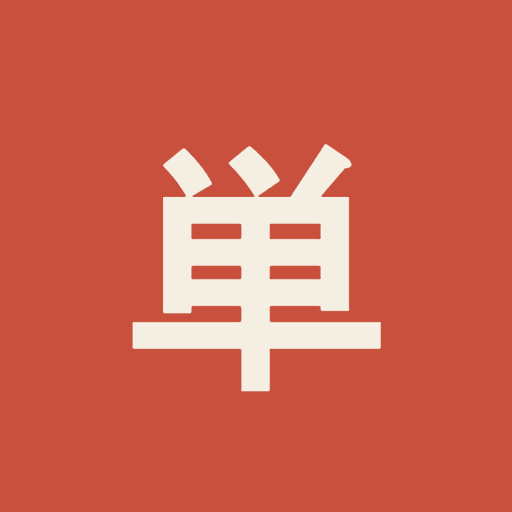
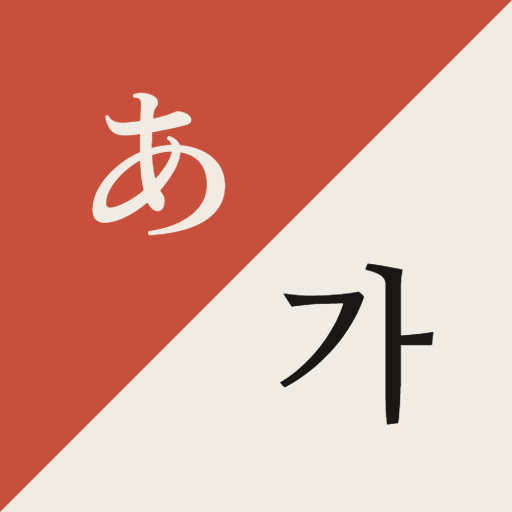
앱 아이콘 B6 확정 (あ + 가 대각 분할 · 주색/크림)
초기 単 아이콘을 교체. 単은 '단어장'의 単일 뿐 "일본인이 한국어를 배우는 앱"이라는
성격이 드러나지 않았다.

색 조합 6가지를 대비로 비교해 결정했다. 크림 글자는 주색 위에서 3.8:1, 먹 위에서
15.1:1 로 4배 차이가 나 48dp 에서 한 톤 물러나 보인다. 즉 어느 글자를 주인공으로
둘지의 문제였고, 앱 성격상 「가」가 주인공이어야 한다.
B6(주색/크림)만이 넓은 주색 면적으로 채도를 살리면서 「가」를 15.1:1 로 세우고,
세 키컬러가 모두 살아있다.

Play 스토어 「韓国語 単語」 상위 11개 조사 결과, 대각 분할로 두 문자 체계를 병치한
아이콘은 없었다. 팔레트가 겹치는 둘(韓国語単語トレーニング, Mondly)도 구성이 완전히
달라 혼동 위험은 낮다. 단일 한글 「한」을 쓰는 앱은 이미 있어 초기 후보 A안과
겹쳤을 것이다.

- icon-192 / icon-512 / icon-maskable-512 / playstore-512 교체
- tools/icon-gen.html 설정 기반으로 재작성. B1~B6 + 검토안 A/C/初 을 담고 채택안을
  표시하며 글자/바탕 대비를 함께 보여준다(3:1 미만 경고색)
- 도구 생성본과 설치본을 픽셀 대조: 26만 중 6픽셀만 최대 3/255 차이(안티앨리어싱)

diff --git a/tools/icon-gen.html b/tools/icon-gen.html
@@ -8,35 +8,41 @@
   body { background:#2A2723; color:#EDE7DC; margin:0; padding:26px 30px 60px;
          font-family:'Malgun Gothic','Apple SD Gothic Neo',sans-serif; }
   h1 { font-size:19px; margin:0 0 6px; }
-  .sub { font-size:12.5px; color:#9A9285; line-height:1.7; margin-bottom:26px; max-width:760px; }
+  h2 { font-size:14px; color:#9A9285; margin:34px 0 14px; letter-spacing:.04em;
+       border-top:1px solid #3B372F; padding-top:20px; }
+  .sub { font-size:12.5px; color:#9A9285; line-height:1.7; margin-bottom:20px; max-width:780px; }
   .sub code { background:#3B372F; padding:1px 6px; border-radius:4px; }
-  .row { display:flex; gap:30px; align-items:flex-start; margin-bottom:26px;
-         padding-bottom:24px; border-bottom:1px solid #3B372F; }
-  .meta { width:210px; flex:none; }
-  .tag { display:inline-block; font-size:10.5px; font-weight:800; letter-spacing:.08em;
-         background:#C84F3B; color:#fff; padding:3px 9px; border-radius:5px; margin-bottom:9px; }
-  .name { font-size:15px; font-weight:700; margin-bottom:5px; }
-  .desc { font-size:12px; color:#A8A093; line-height:1.65; margin-bottom:12px; }
+  .row { display:flex; gap:28px; align-items:flex-start; margin-bottom:22px; }
+  .meta { width:200px; flex:none; }
+  .tag { display:inline-block; font-size:10px; font-weight:800; letter-spacing:.08em;
+         background:#3B372F; color:#A8A093; padding:3px 9px; border-radius:5px; margin-bottom:8px; }
+  .tag.on { background:#C84F3B; color:#fff; }
+  .name { font-size:15px; font-weight:700; margin-bottom:4px; }
+  .ratio { font-size:11.5px; color:#8C8578; margin-bottom:10px; }
+  .ratio.warn { color:#E08A72; }
   .dl { font-size:12px; font-weight:700; background:#C84F3B; color:#fff; border:none;
         padding:8px 14px; border-radius:7px; cursor:pointer; }
   .dl:hover { background:#AE4230; }
-  .shots { display:flex; gap:20px; align-items:flex-end; flex-wrap:wrap; }
+  .dl.ghost { background:transparent; color:#A8A093; border:1px solid #4A453C; }
+  .dl.ghost:hover { border-color:#C84F3B; color:#EDE7DC; background:transparent; }
+  .shots { display:flex; gap:18px; align-items:flex-end; flex-wrap:wrap; }
   .shot { text-align:center; }
-  .cap { font-size:10.5px; color:#8C8578; margin-top:7px; }
+  .cap { font-size:10.5px; color:#8C8578; margin-top:6px; }
   canvas { display:block; }
   .circ { border-radius:50%; overflow:hidden; }
   .sq22 { border-radius:22.5%; overflow:hidden; }
-  .launcher { background:linear-gradient(160deg,#4a5568,#2d3748); padding:12px 14px;
-              border-radius:12px; display:flex; gap:14px; align-items:center; }
+  .launcher { background:linear-gradient(160deg,#4a5568,#2d3748); padding:11px 13px;
+              border-radius:12px; display:flex; gap:13px; align-items:center; }
 </style></head><body>
 
 <h1>mmr-cards 앱 아이콘 생성기</h1>
 <div class="sub">
   키컬러: 크림 <code>#F1ECE3</code> · 먹 <code>#1A1815</code> · 주색 <code>#C84F3B</code><br>
-  브라우저로 이 파일을 그냥 열면 된다(서버 불필요). 안을 고르고 <b>내려받기</b>를 누르면
+  브라우저로 이 파일을 그냥 열면 된다(서버 불필요). <b>내려받기</b>를 누르면
   <code>icon-192.png</code> · <code>icon-512.png</code> · <code>icon-maskable-512.png</code> ·
-  <code>playstore-512.png</code> 4개가 저장된다. 그걸 프로젝트 루트에 덮어쓰면 교체 완료.<br>
-  <b>maskable</b>은 원형·스퀴클 등 어떤 마스크로 잘려도 글자가 살아남도록 safe zone 안으로 축소한 별도 버전이다.
+  <code>playstore-512.png</code> 4개가 저장되고, 프로젝트 루트에 덮어쓰면 교체 완료.<br>
+  <b>maskable</b>은 원형·스퀴클 등 어떤 마스크로 잘려도 글자가 살아남도록 safe zone 안으로 축소한 버전.
+  숫자는 <b>글자/바탕 대비</b>로, 3:1 미만이면 48dp 에서 눈에 띄게 물러나 보인다.
 </div>
 <div id="out"></div>
 
@@ -45,57 +51,54 @@ const CREAM = "#F1ECE3", INK = "#1A1815", RED = "#C84F3B";
 const MIN = "'Zen Old Mincho','Noto Serif KR',serif";   // 한자·가나 — 明朝
 const KOR = "'Nanum Myeongjo','Noto Serif KR',serif";   // 한글 — 명조
 
-function base(size, bg) {
+/* ── 렌더러 ────────────────────────────────────────────────
+   split : 대각 분할 2문자 — { a:상단좌 바탕, b:하단우 바탕, ga:あ색, gk:가색 }
+   solid : 단일 문자      — { bg, ch, fg, font }                              */
+function render(v, size, maskable) {
   const c = document.createElement("canvas");
   c.width = c.height = size;
   const x = c.getContext("2d");
-  x.fillStyle = bg; x.fillRect(0, 0, size, size);
-  return { c, x };
-}
-function glyph(x, size, ch, color, font, scale, cx, cy) {
-  x.fillStyle = color; x.textAlign = "center"; x.textBaseline = "middle";
-  x.font = "700 " + Math.round(size * scale) + "px " + font;
-  x.fillText(ch, size * cx, size * cy);
-}
-
-/* A. 한글 「가」 단독 — 주색 바탕 */
-function A(size, maskable) {
-  const { c, x } = base(size, RED);
-  glyph(x, size, "가", CREAM, KOR, maskable ? 0.42 : 0.56, 0.5, 0.53);
-  return c;
-}
-/* B. あ + 가 대각 분할 */
-function B(size, maskable) {
-  const { c, x } = base(size, INK);
-  x.fillStyle = RED;
-  x.beginPath(); x.moveTo(size, 0); x.lineTo(size, size); x.lineTo(0, size); x.closePath(); x.fill();
-  const s = maskable ? 0.26 : 0.33;
-  glyph(x, size, "あ", CREAM, MIN, s, maskable ? 0.35 : 0.31, maskable ? 0.36 : 0.32);
-  glyph(x, size, "가", CREAM, KOR, s, maskable ? 0.65 : 0.69, maskable ? 0.65 : 0.69);
-  return c;
-}
-/* C. 한자 「韓」 — 크림 바탕 (초기 単 아이콘 계승) */
-function C(size, maskable) {
-  const { c, x } = base(size, CREAM);
-  glyph(x, size, "韓", RED, MIN, maskable ? 0.40 : 0.54, 0.5, 0.53);
-  return c;
-}
-/* 참고: 초기 버전 (2026-08-21 이전) */
-function LEGACY(size, maskable) {
-  const { c, x } = base(size, RED);
-  glyph(x, size, "単", CREAM, MIN, maskable ? 0.40 : 0.53, 0.5, 0.52);
+  const put = (ch, col, font, scale, cx, cy) => {
+    x.fillStyle = col; x.textAlign = "center"; x.textBaseline = "middle";
+    x.font = "700 " + Math.round(size * scale) + "px " + font;
+    x.fillText(ch, size * cx, size * cy);
+  };
+  if (v.type === "split") {
+    x.fillStyle = v.a; x.fillRect(0, 0, size, size);
+    x.fillStyle = v.b;
+    x.beginPath(); x.moveTo(size, 0); x.lineTo(size, size); x.lineTo(0, size); x.closePath(); x.fill();
+    const s = maskable ? 0.26 : 0.33;
+    put("あ", v.ga, MIN, s, maskable ? 0.35 : 0.31, maskable ? 0.36 : 0.32);
+    put("가", v.gk, KOR, s, maskable ? 0.65 : 0.69, maskable ? 0.65 : 0.69);
+  } else {
+    x.fillStyle = v.bg; x.fillRect(0, 0, size, size);
+    put(v.ch, v.fg, v.font, maskable ? 0.41 : 0.55, 0.5, 0.53);
+  }
   return c;
 }
 
-const OPTS = [
-  { k: "A", fn: A, name: "한글 「가」", tag: "가장 직관적",
-    desc: "주색 바탕에 크림 한글. 「가」는 가나다의 첫 글자라 한글을 몰라도 '한국어'로 읽힌다. 한 글자뿐이라 48dp에서 가장 또렷하다." },
-  { k: "B", fn: B, name: "あ + 가 대각 분할", tag: "기능이 드러남",
-    desc: "먹/주색 대각 분할에 두 문자의 첫 글자를 하나씩. 일본어↔한국어를 오가는 앱이라는 게 바로 보인다. 다만 48dp에선 두 글자가 작아진다." },
-  { k: "C", fn: C, name: "한자 「韓」", tag: "기존 아이덴티티 계승",
-    desc: "크림 종이에 주색 明朝. 일본인은 韓国語의 韓을 즉시 '한국어'로 읽는다. 초기 単 아이콘의 결을 그대로 잇는 안." },
-  { k: "L", fn: LEGACY, name: "「単」 (초기 버전)", tag: "참고",
-    desc: "2026-08-21까지 쓰던 아이콘. '단어장'의 単이라 언어 방향성이 드러나지 않는다." },
+/* ── WCAG 대비 ── */
+const hx = h => { h = h.replace("#",""); return [0,2,4].map(i => parseInt(h.slice(i,i+2),16)); };
+const lin = c => { c /= 255; return c <= 0.03928 ? c/12.92 : Math.pow((c+0.055)/1.055, 2.4); };
+const L = h => { const [r,g,b] = hx(h); return 0.2126*lin(r) + 0.7152*lin(g) + 0.0722*lin(b); };
+const R = (p,q) => { const a = L(p), b = L(q); const [hi,lo] = a>b ? [a,b] : [b,a]; return (hi+0.05)/(lo+0.05); };
+
+const VARIANTS = [
+  { id:"B6", chosen:true, type:"split", name:"주색 / 크림", a:RED,   b:CREAM, ga:CREAM, gk:INK,
+    note:"채택. 주색 면적이 넓어 스토어 목록에서 채도로 튀고, 주인공인 「가」가 크림 위 먹이라 가장 선명하다. 세 키컬러가 모두 살아있는 유일한 조합." },
+  { id:"B1", type:"split", name:"먹 / 주색",   a:INK,   b:RED,   ga:CREAM, gk:CREAM },
+  { id:"B2", type:"split", name:"주색 / 먹",   a:RED,   b:INK,   ga:CREAM, gk:CREAM },
+  { id:"B3", type:"split", name:"크림 / 주색", a:CREAM, b:RED,   ga:INK,   gk:CREAM },
+  { id:"B4", type:"split", name:"크림 / 먹",   a:CREAM, b:INK,   ga:RED,   gk:CREAM },
+  { id:"B5", type:"split", name:"먹 / 크림",   a:INK,   b:CREAM, ga:CREAM, gk:RED   },
+];
+const OTHERS = [
+  { id:"A", type:"solid", name:"한글 「가」", bg:RED,   ch:"가", fg:CREAM, font:KOR,
+    note:"48dp 가독성은 최고지만, 「한」 단일 글자를 쓰는 경쟁 앱이 이미 있다." },
+  { id:"C", type:"solid", name:"한자 「韓」", bg:CREAM, ch:"韓", fg:RED,   font:MIN,
+    note:"일본인은 韓国語의 韓을 즉시 읽는다. 다만 '언어 학습'보다 '한국 관련'으로 읽힌다." },
+  { id:"L", type:"solid", name:"「単」 초기안", bg:RED, ch:"単", fg:CREAM, font:MIN,
+    note:"2026-08-21 까지 쓰던 아이콘. 언어 방향성이 드러나지 않는다." },
 ];
 
 function download(name, dataUrl) {
@@ -103,52 +106,67 @@ function download(name, dataUrl) {
   a.href = dataUrl; a.download = name;
   document.body.appendChild(a); a.click(); a.remove();
 }
-function buildSet(fn) {
+function buildSet(v) {
   return {
-    "icon-192.png":           fn(192, false).toDataURL("image/png"),
-    "icon-512.png":           fn(512, false).toDataURL("image/png"),
-    "icon-maskable-512.png":  fn(512, true).toDataURL("image/png"),
-    "playstore-512.png":      fn(512, false).toDataURL("image/png"),
+    "icon-192.png":          render(v, 192, false).toDataURL("image/png"),
+    "icon-512.png":          render(v, 512, false).toDataURL("image/png"),
+    "icon-maskable-512.png": render(v, 512, true ).toDataURL("image/png"),
+    "playstore-512.png":     render(v, 512, false).toDataURL("image/png"),
   };
 }
 
 const out = document.getElementById("out");
-function render() {
-  out.innerHTML = "";
-  OPTS.forEach(o => {
-    const row = document.createElement("div"); row.className = "row";
-    const meta = document.createElement("div"); meta.className = "meta";
-    meta.innerHTML = '<span class="tag">' + o.tag + '</span><div class="name">' + o.k + '. ' + o.name +
-                     '</div><div class="desc">' + o.desc + '</div>';
-    const btn = document.createElement("button"); btn.className = "dl";
-    btn.textContent = o.k + "안 내려받기 (4개)";
-    btn.onclick = () => {
-      const set = buildSet(o.fn);
-      Object.entries(set).forEach(([n, u], i) => setTimeout(() => download(n, u), i * 220));
-    };
-    meta.appendChild(btn);
-    row.appendChild(meta);
+function card(v) {
+  const row = document.createElement("div"); row.className = "row";
+  const meta = document.createElement("div"); meta.className = "meta";
+  const ra = v.type === "split" ? R(v.ga, v.a) : R(v.fg, v.bg);
+  const rk = v.type === "split" ? R(v.gk, v.b) : null;
+  const weak = ra < 3 || (rk !== null && rk < 3);
+  meta.innerHTML =
+    '<span class="tag' + (v.chosen ? ' on' : '') + '">' + (v.chosen ? '채택' : v.id) + '</span>' +
+    '<div class="name">' + v.id + '. ' + v.name + '</div>' +
+    '<div class="ratio' + (weak ? ' warn' : '') + '">' +
+      (rk !== null ? 'あ ' + ra.toFixed(1) + ':1 &nbsp; 가 ' + rk.toFixed(1) + ':1'
+                   : v.ch + ' ' + ra.toFixed(1) + ':1') + '</div>' +
+    (v.note ? '<div class="ratio" style="color:#A8A093;line-height:1.6">' + v.note + '</div>' : '');
+  const btn = document.createElement("button");
+  btn.className = "dl" + (v.chosen ? "" : " ghost");
+  btn.textContent = v.id + " 내려받기 (4개)";
+  btn.onclick = () => Object.entries(buildSet(v))
+    .forEach(([n, u], i) => setTimeout(() => download(n, u), i * 220));
+  meta.appendChild(btn);
+  row.appendChild(meta);
 
-    const shots = document.createElement("div"); shots.className = "shots";
-    const add = (node, cap) => {
-      const d = document.createElement("div"); d.className = "shot";
-      d.appendChild(node);
-      const p = document.createElement("div"); p.className = "cap"; p.textContent = cap;
-      d.appendChild(p); shots.appendChild(d);
-    };
-    const big = o.fn(150, false); big.className = "sq22"; add(big, "150px");
-    const circ = o.fn(96, true); circ.className = "circ"; add(circ, "maskable · 원형");
-    const l = document.createElement("div"); l.className = "launcher";
-    [0, 1].forEach(i => {
-      const s = o.fn(96, i === 1);
-      s.style.width = "48px"; s.style.height = "48px";
-      s.className = i === 1 ? "circ" : "sq22";
-      l.appendChild(s);
-    });
-    add(l, "실제 런처 48dp (각 / 원형)");
-    row.appendChild(shots);
-    out.appendChild(row);
+  const shots = document.createElement("div"); shots.className = "shots";
+  const add = (node, cap) => {
+    const d = document.createElement("div"); d.className = "shot";
+    d.appendChild(node);
+    const p = document.createElement("div"); p.className = "cap"; p.textContent = cap;
+    d.appendChild(p); shots.appendChild(d);
+  };
+  const big = render(v, 130, false); big.className = "sq22"; add(big, "130px");
+  const circ = render(v, 76, true); circ.className = "circ"; add(circ, "maskable · 원형");
+  const l = document.createElement("div"); l.className = "launcher";
+  [0, 1].forEach(i => {
+    const s = render(v, 96, i === 1);
+    s.style.width = "48px"; s.style.height = "48px";
+    s.className = i === 1 ? "circ" : "sq22";
+    l.appendChild(s);
   });
+  add(l, "실제 런처 48dp");
+  row.appendChild(shots);
+  return row;
+}
+function draw() {
+  out.innerHTML = "";
+  const h1 = document.createElement("h2");
+  h1.textContent = "B안 — あ + 가 대각 분할 (색 조합)";
+  out.appendChild(h1);
+  VARIANTS.forEach(v => out.appendChild(card(v)));
+  const h2 = document.createElement("h2");
+  h2.textContent = "검토했던 다른 방향";
+  out.appendChild(h2);
+  OTHERS.forEach(v => out.appendChild(card(v)));
 }
 
 // 폰트가 준비된 뒤에 그린다 — 캔버스는 폴백 폰트로 한번 그리면 되돌릴 수 없다
@@ -156,6 +174,6 @@ Promise.all([
   document.fonts.load('700 100px "Nanum Myeongjo"'),
   document.fonts.load('700 100px "Zen Old Mincho"'),
   document.fonts.load('700 100px "Noto Serif KR"')
-]).then(() => document.fonts.ready).then(render);
+]).then(() => document.fonts.ready).then(draw);
 </script>
 </body></html>
